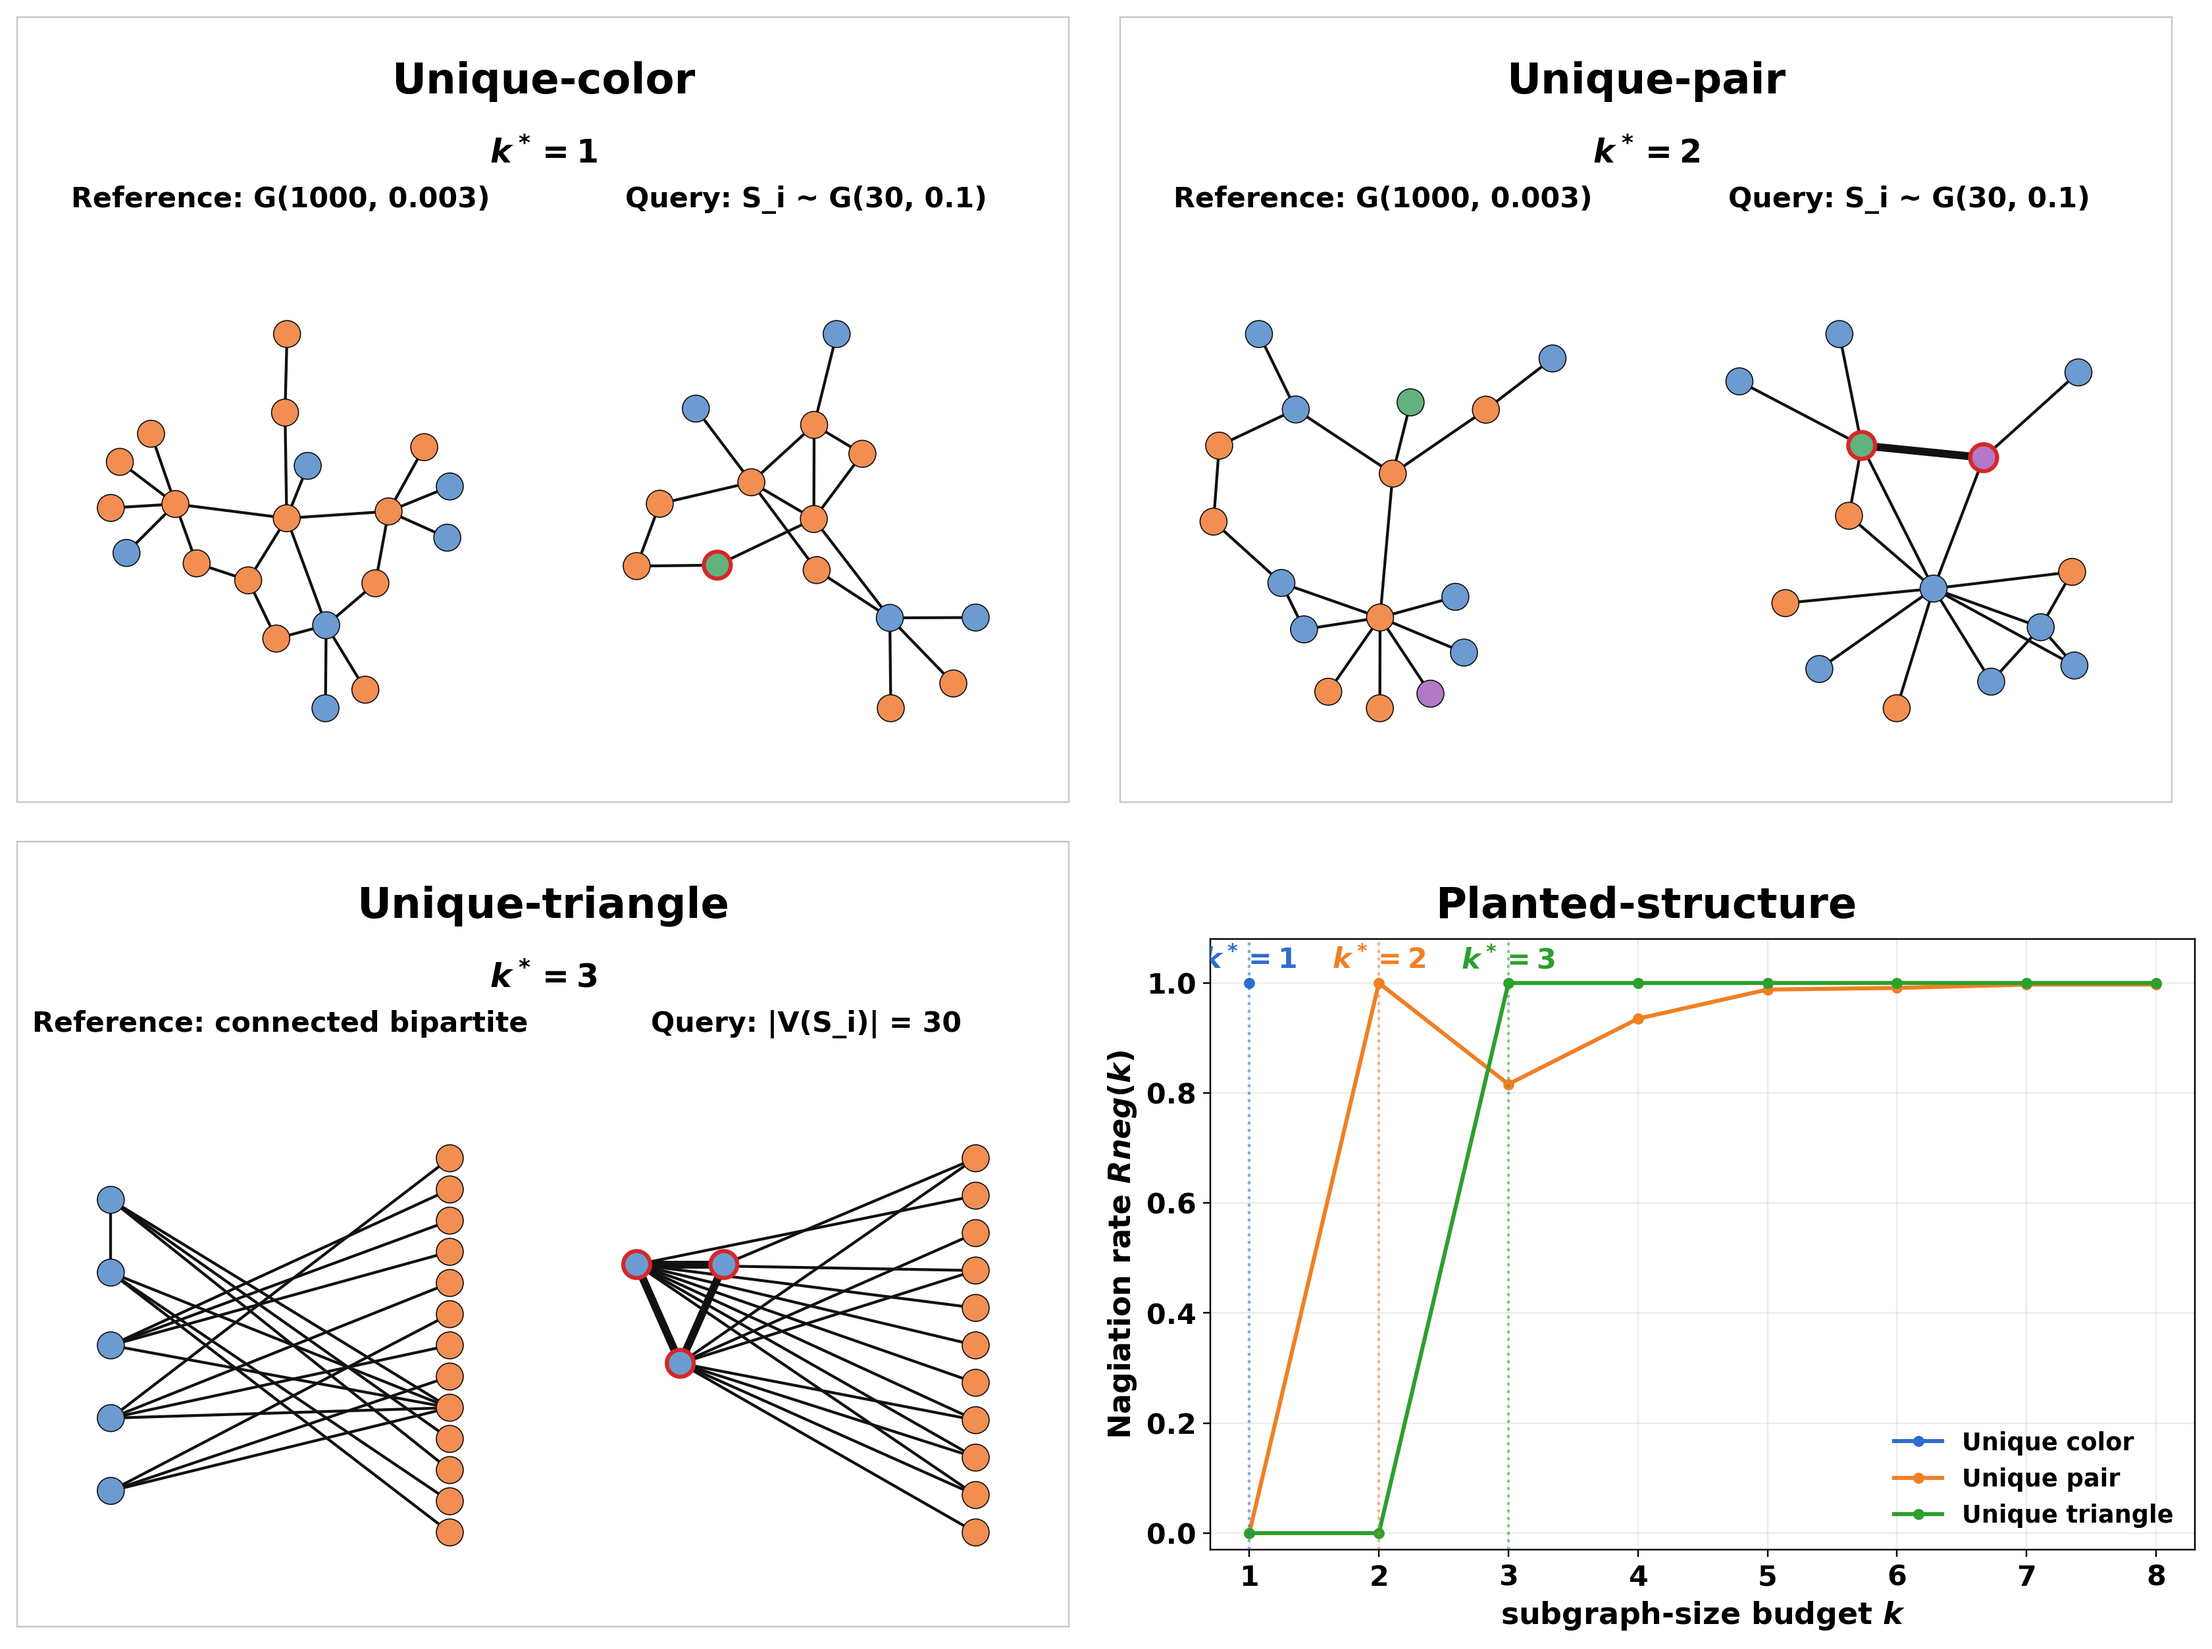
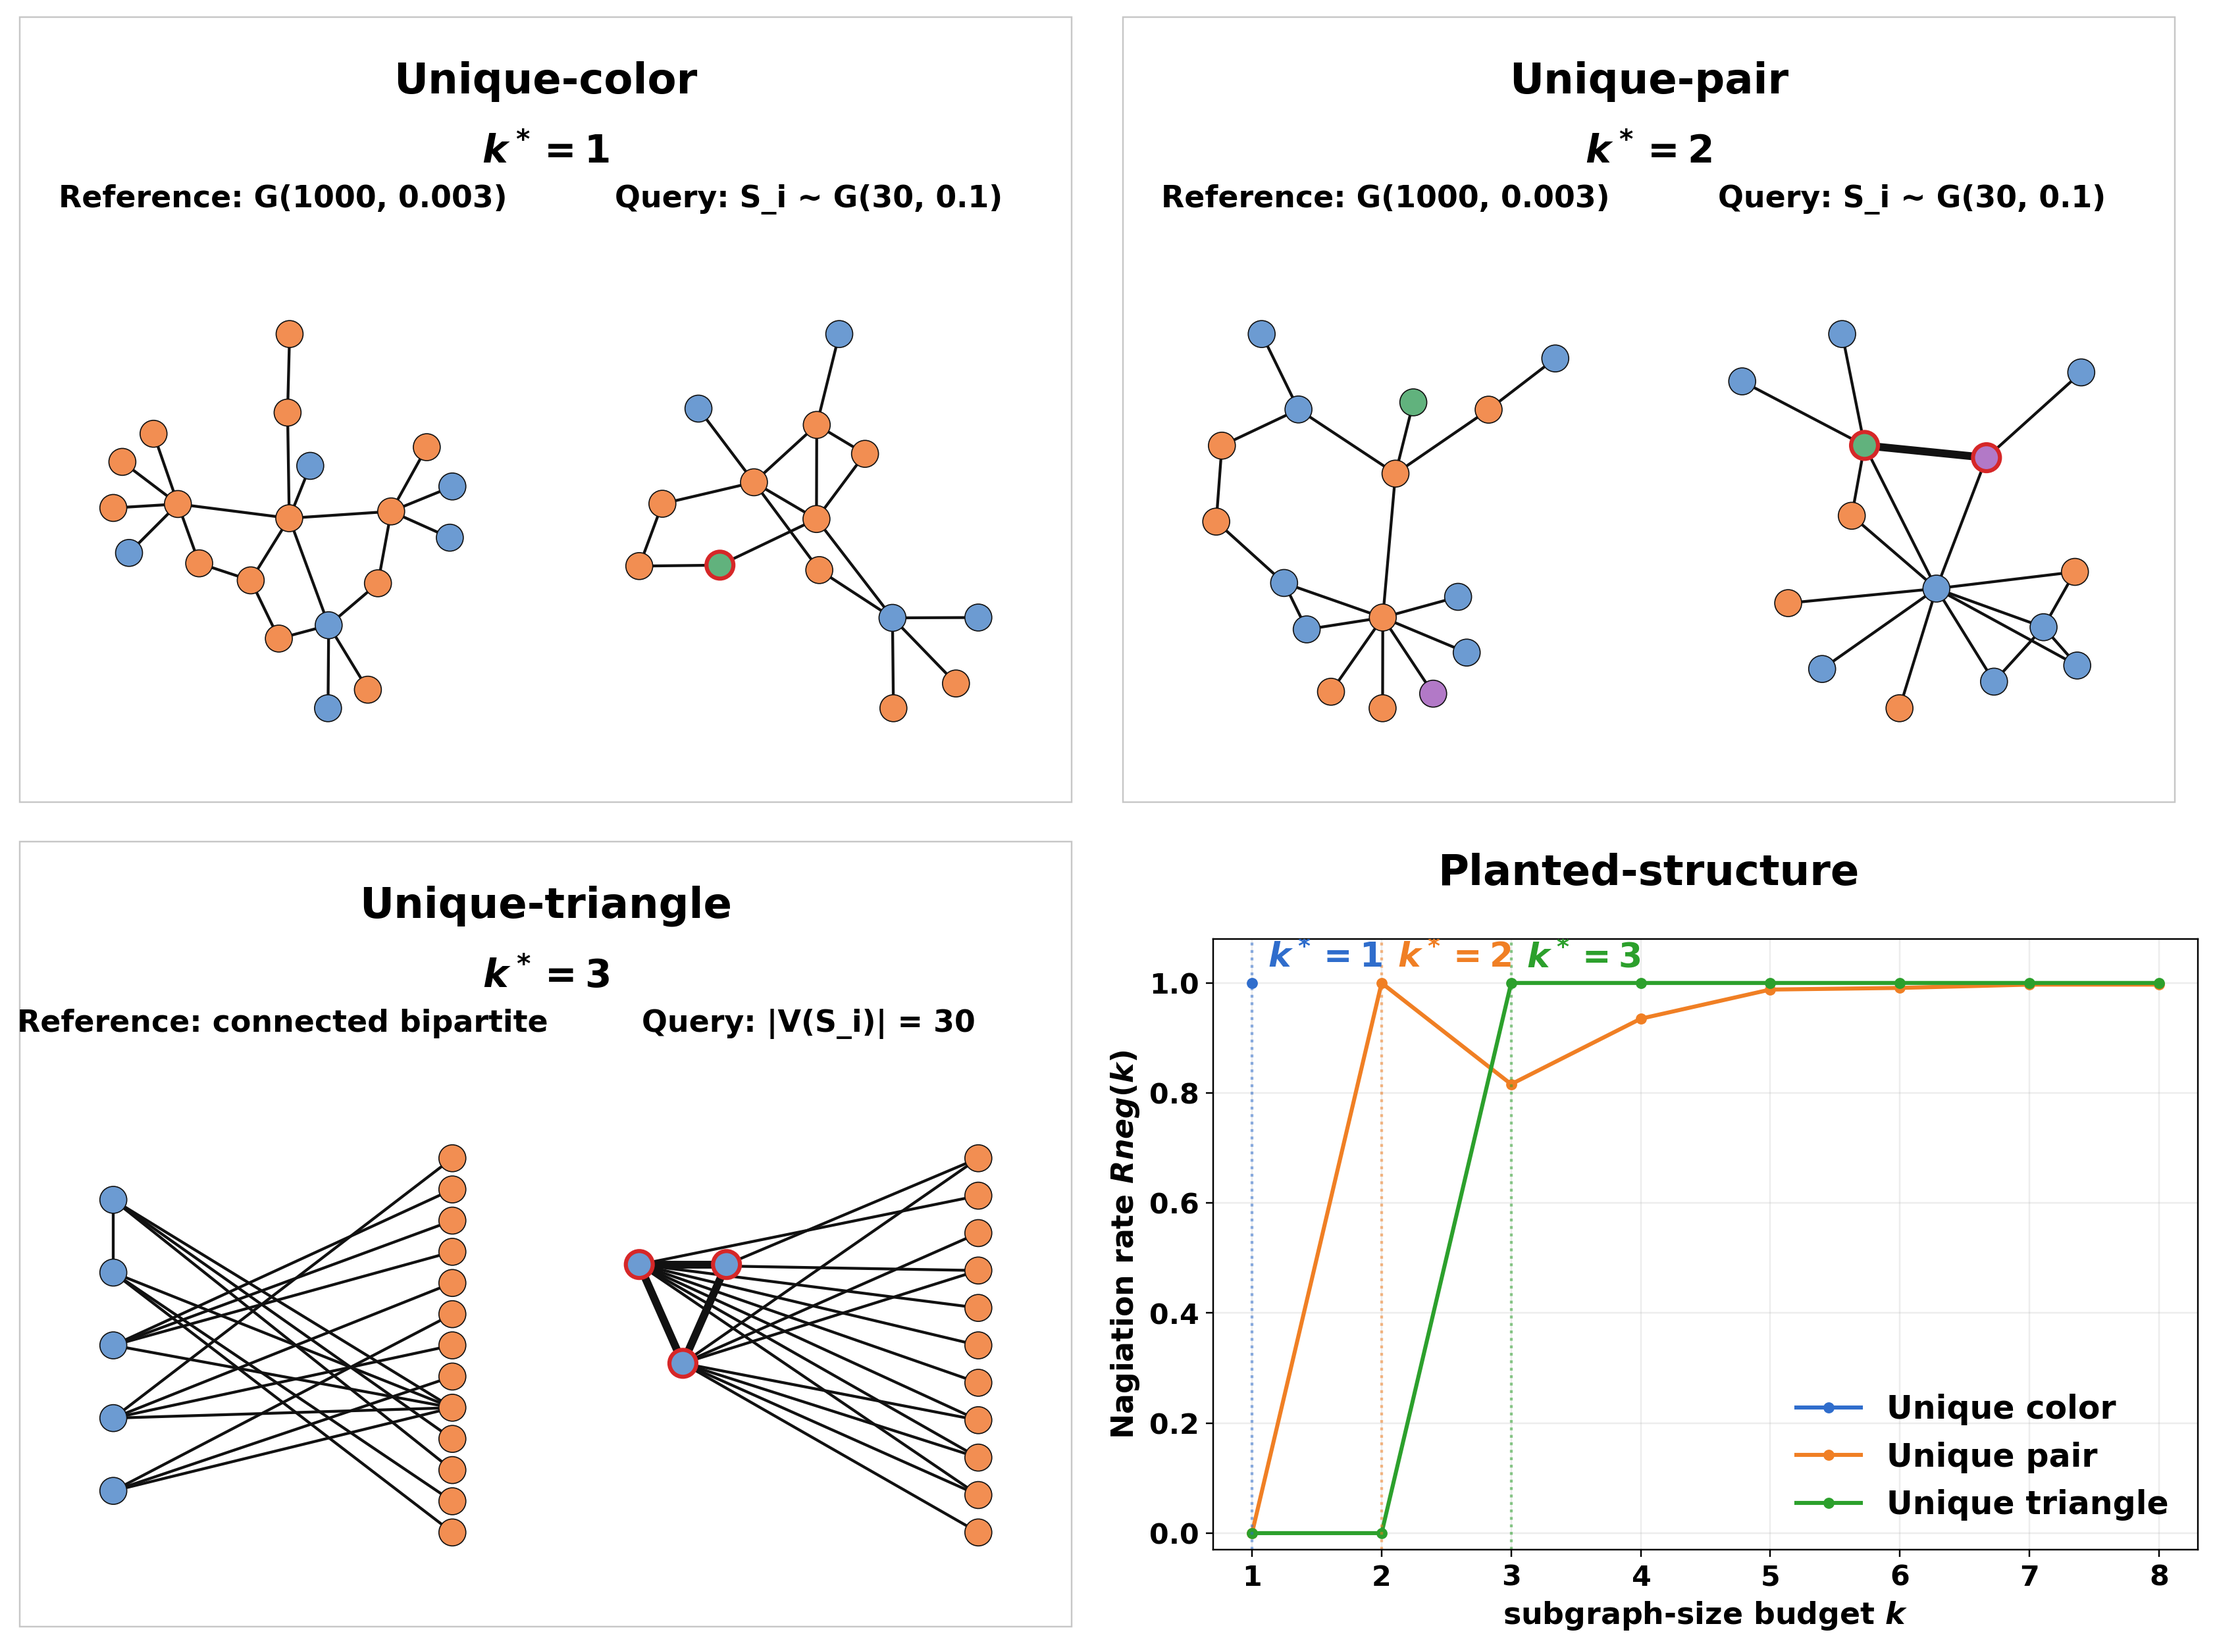
Adjust Figure 2 title and legend

diff --git a/figures/figure_02/plot.py b/figures/figure_02/plot.py
@@ -286,12 +286,17 @@ def add_case_panel(fig: plt.Figure, cell, case_data) -> None:
     )
     k_star = {"color": 1, "pair": 2, "triangle": 3}[case]
     outer.text(
-        0.5, 0.875, rf"$k^* = {k_star}$", ha="center", fontsize=16, weight="bold"
+        0.5, 0.875, rf"$k^* = {k_star}$", ha="center", fontsize=19, weight="bold"
     )
     outer.text(
-        0.25, 0.815, background_text, ha="center", fontsize=14, weight="bold"
+        0.25,
+        0.815,
+        background_text,
+        ha="center",
+        fontsize=15,
+        weight="bold",
     )
-    outer.text(0.75, 0.815, query_text, ha="center", fontsize=14, weight="bold")
+    outer.text(0.75, 0.815, query_text, ha="center", fontsize=15, weight="bold")
     left_ax = outer.inset_axes([0.055, 0.075, 0.39, 0.62])
     right_ax = outer.inset_axes([0.555, 0.075, 0.39, 0.62])
     draw_graph(left_ax, *background, case=case, seed=seed)
@@ -345,13 +350,13 @@ def plot_recovery(ax: plt.Axes, show_title: bool = False) -> None:
     for k, color in ((1, "#2f6dcc"), (2, "#f07f24"), (3, "#2ca02c")):
         ax.axvline(k, color=color, linestyle=":", linewidth=1.4, alpha=0.55)
         ax.text(
-            k,
+            k + 0.12,
             1.015,
             rf"$k^*={k}$",
             color=color,
-            ha="center",
+            ha="left",
             va="bottom",
-            fontsize=14,
+            fontsize=17,
             weight="bold",
             clip_on=True,
         )
@@ -364,7 +369,7 @@ def plot_recovery(ax: plt.Axes, show_title: bool = False) -> None:
     ax.tick_params(labelsize=14)
     for label in [*ax.get_xticklabels(), *ax.get_yticklabels()]:
         label.set_fontweight("bold")
-    legend = ax.legend(frameon=False, fontsize=12, loc="lower right")
+    legend = ax.legend(frameon=False, fontsize=16, loc="lower right")
     for label in legend.get_texts():
         label.set_fontweight("bold")
 
@@ -373,7 +378,7 @@ def add_recovery_panel(fig: plt.Figure, cell) -> None:
     x, y, width, height = cell
     fig.text(
         x + width / 2,
-        y + height * 1.015,
+        y + height * 1.06,
         "Planted-structure",
         ha="center",
         va="top",
